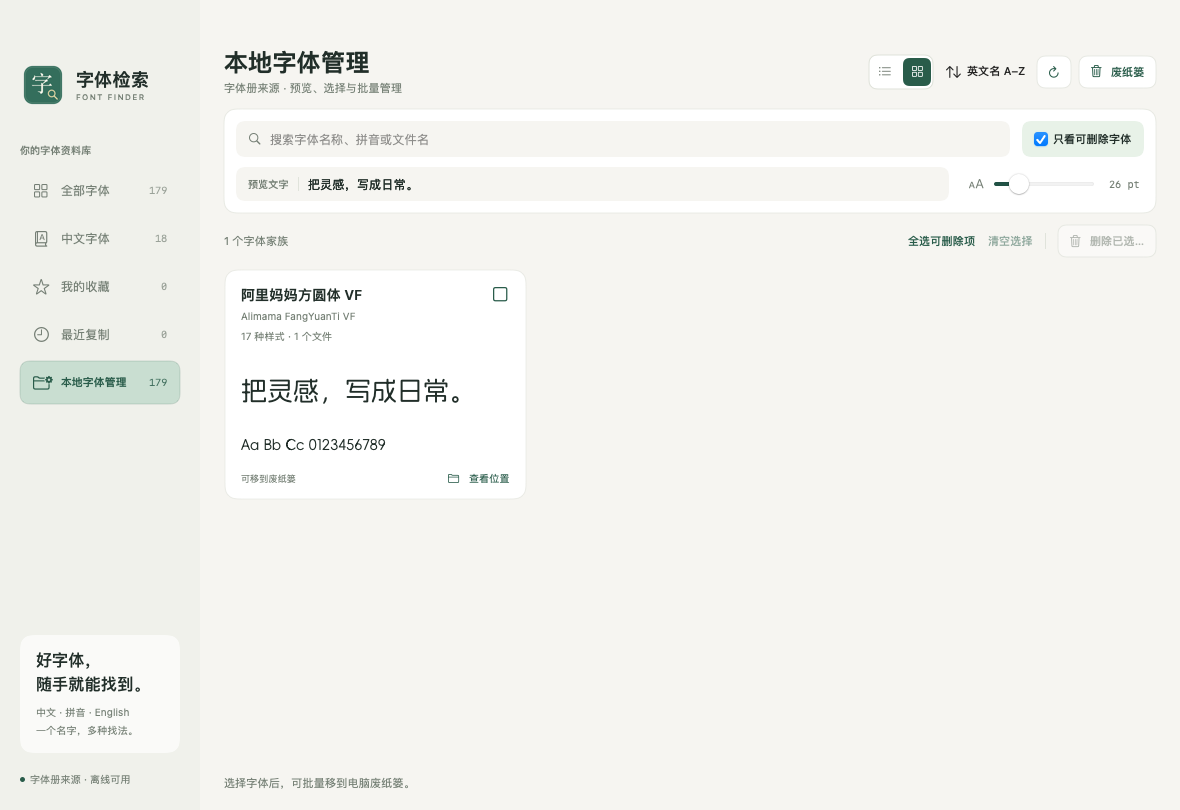
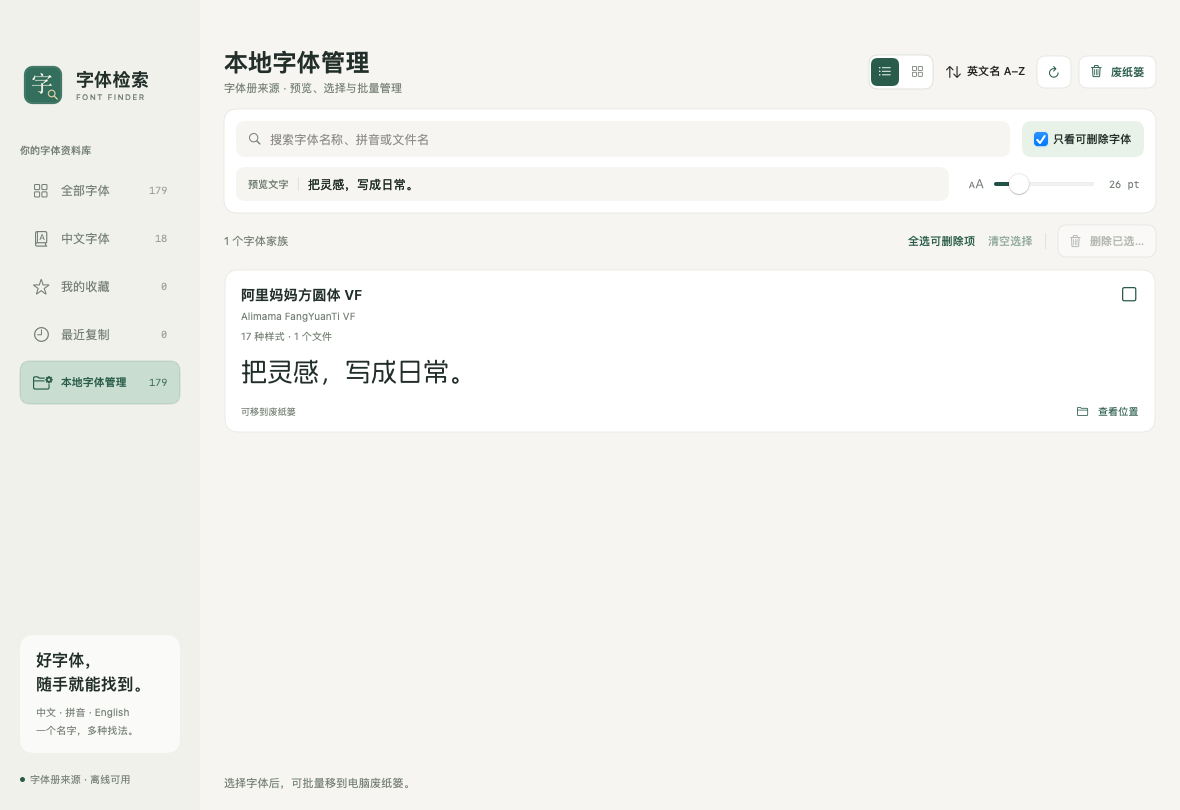
Record the verified v1.19 default list layout release

diff --git a/documentation/v1.19-validation.md b/documentation/v1.19-validation.md
@@ -1,0 +1,9 @@
+# v1.19 默认列表显示
+
+日期：2026-11-05；版本 1.19、构建 20。
+
+- 五个分类在没有已保存布局选择时统一使用列表，包括本地字体管理。保留用户手动保存的显示偏好，不重置现有网格选择。
+- [main 构建及发布](https://github.com/sudazz777/ZiTiJianSuo/actions/runs/41955167182) 成功，来源 `8d79e94`。本机功能 86 项、更新 46 项、字体管理 29 项、安装 31 项、焦点和窗口 15 项、历史 GitHub 模块 61 项全部通过。DMG 挂载、布局、Applications 复制、签名及 Universal 架构检查通过。
+- [v1.19](https://github.com/sudazz777/ZiTiJianSuo/releases/tag/v1.19) 已公开发布。公开下载与构建产物逐字节一致，稳定更新入口版本 1.19、构建 20。
[1 lines of base64/hex data omitted]
+- 实际检查环境为 macOS 14 Apple 芯片，未验证所有系统版本和 Intel 实机。仍采用 ad-hoc 签名，未完成 Developer ID 签名和公证。
